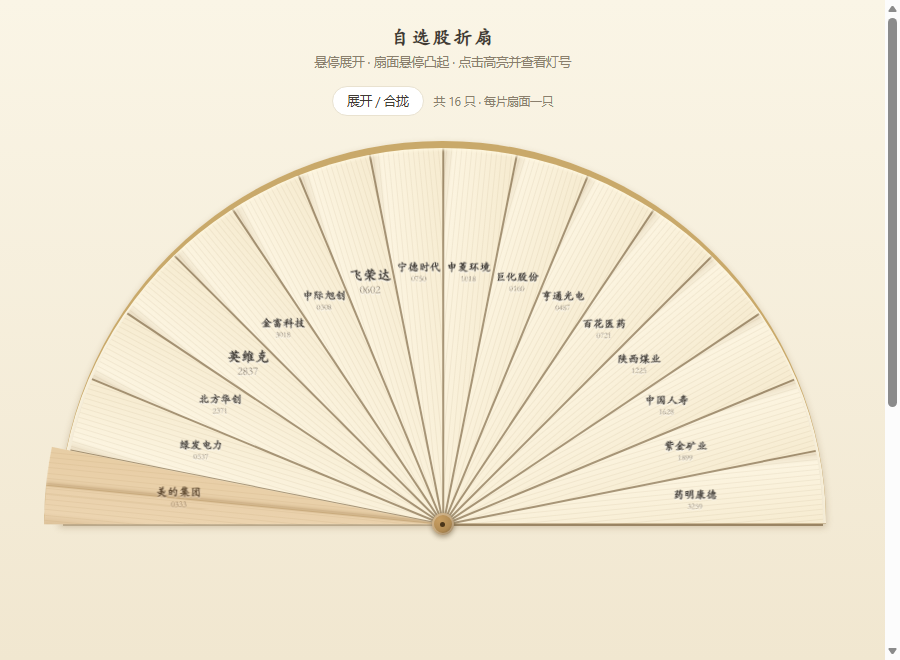
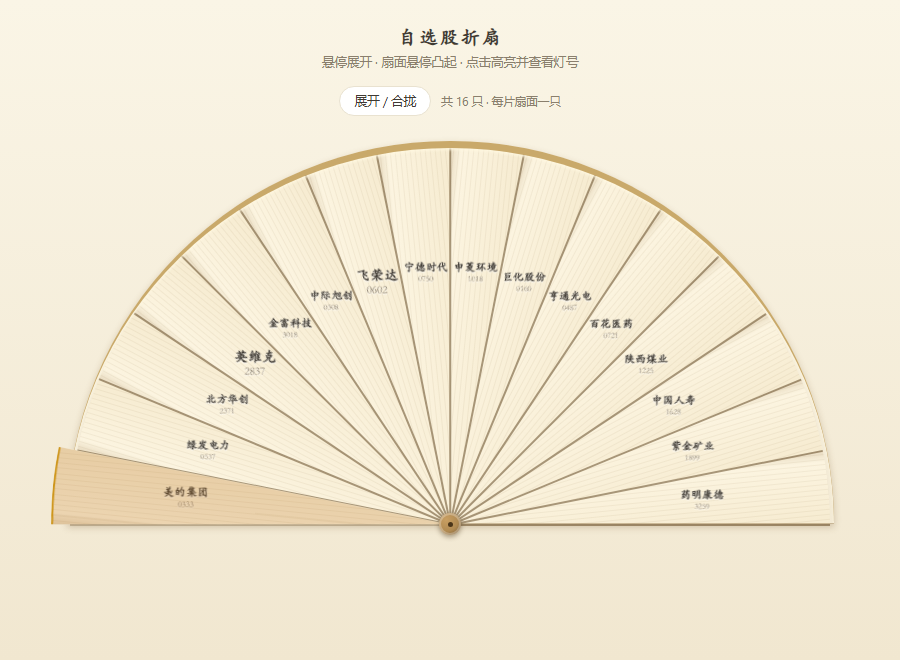
折扇 v4：悬停包边改用 clip-path 圆弧带（金色 2px，无 border 不抖动）+ drop-shadow 兜底

diff --git a/docs/previews/fan-demo-v4.html b/docs/previews/fan-demo-v4.html
@@ -54,7 +54,7 @@ h1{font-family:"STKaiti","KaiTi",serif; font-size:19px; font-weight:600; letter-
     repeating-linear-gradient(0deg, rgba(120,90,40,.07) 0 1px, transparent 1px 5px),
     linear-gradient(180deg, #FDF6E3 0%, #F6EBD0 100%);
   filter:drop-shadow(0 2px 2px rgba(110,80,35,.28));
-  transition:transform .18s ease, filter .18s ease;
+  transition:transform .2s ease-in-out, filter .2s ease-in-out;
   z-index:1;
 }
 .blade::after{
@@ -74,18 +74,17 @@ h1{font-family:"STKaiti","KaiTi",serif; font-size:19px; font-weight:600; letter-
 }
 .blade.sel::after{background:rgba(190,120,40,.26)}
 
-/* 叶片自身包边：悬停突起时沿外弧显示 */
+/* 叶片自身包边：悬停突起时沿外弧显示（clip-path 圆弧带，不用 border） */
 .blade-rim{
-  position:absolute; left:-380px; top:-342.5px; width:760px; height:380px;
-  border-radius:380px 380px 0 0;
-  border-top:6px solid #C9A96A;
-  box-shadow:
-    inset 0 1px 2px rgba(255,248,225,.75),
-    inset 0 -1px 0 rgba(120,85,35,.35),
-    0 2px 4px rgba(110,80,35,.30);
-  opacity:0; transition:opacity .15s; pointer-events:none;
+  position:absolute; inset:0;
+  clip-path:path("M 376.2 0.45 L 378.17 0.254 A 380 380 0 0 1 378.17 74.746 L 376.2 74.55 A 378 378 0 0 0 376.2 0.45 Z");
+  background:#D4A017;
+  box-shadow:0 0 4px rgba(212,160,23,.75);
+  opacity:0; transition:opacity .2s ease-in-out; pointer-events:none;
 }
 .blade:hover .blade-rim, .blade.sel .blade-rim{opacity:1}
+/* 兜底发光：drop-shadow 跟随扇形轮廓（clip-path 下 outline/box-shadow 会被裁掉） */
+.blade:hover{filter:drop-shadow(0 0 3px rgba(212,160,23,.65)) drop-shadow(0 6px 6px rgba(110,80,35,.35))}
 
 /* 文字：正立居中，反向旋转抵消扇面 */
 .blade-text{
